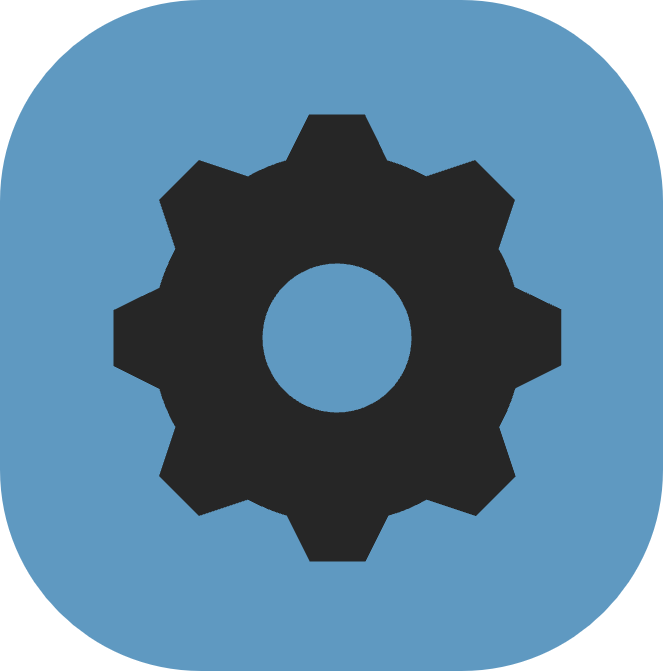
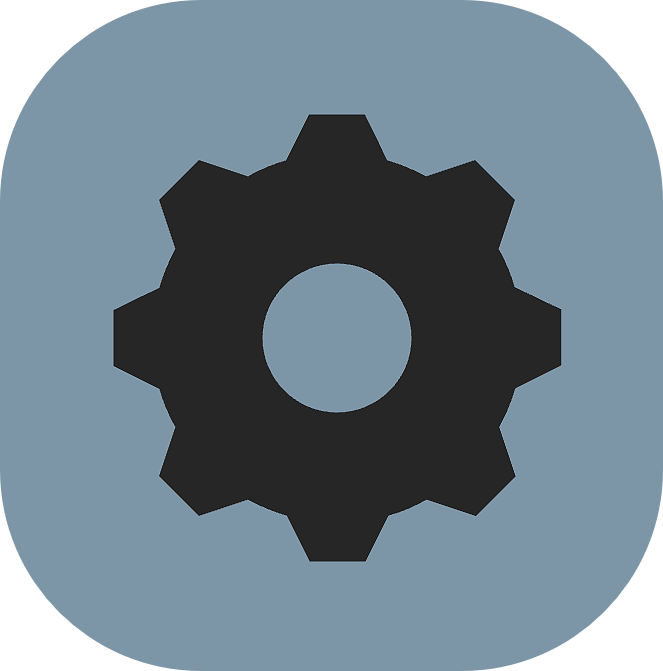
Update
Added persistence to tray opening

diff --git a/popup.js b/popup.js
@@ -11,7 +11,7 @@ const statusLabel = document.getElementById('status');
 const lookupTable = {'brightness':'Brightness','contrast':'Contrast','focusDistance':'Focus Distance','frameRate':'Frame Rate','colorTemperature':'Color Temp',
                     'iso':'ISO','saturation':'Saturation','sharpness':'Sharpness','exposureCompensation':'Exposure Comp', 'exposureTime':'Exposure Time'};
 const controlsList = document.getElementById('constraintControls');
-const controlsToggle = document.getElementById('config');
+const controlsToggle = document.getElementById('controlsToggle');
 const controlElements = new Map();
 const AUTO_MODE_CONFIG = {
     focusDistance: { modeKey: 'focusMode', autoValue: 'continuous', manualValue: 'manual' },
@@ -39,24 +39,36 @@ var showLabel = false;
 var labelBrightness = 0;
 var controlsCollapsed = true;
 
-if (controlsToggle) {
-    const applyControlsPanelState = () => {
+chrome.storage.local.get(['trayOpen'], (result) => {
+    let trayOpen = result.trayOpen;
+    if (trayOpen === undefined) {
+        trayOpen = false;
+        chrome.storage.local.set({ trayOpen });
+    }
+    controlsCollapsed = !trayOpen;
+
+    const updateControlsPanelState = () => {
         const expanded = !controlsCollapsed;
         document.body.classList.toggle('controls-collapsed', controlsCollapsed);
+        if (controlsToggle) {
+            controlsToggle.setAttribute('aria-expanded', expanded.toString());
+            controlsToggle.setAttribute('aria-label', expanded ? 'Hide controls panel' : 'Show controls panel');
+            controlsToggle.title = expanded ? 'Hide controls panel' : 'Show controls panel';
+        }
     };
 
-    applyControlsPanelState();
+    updateControlsPanelState();
 
-    controlsToggle.addEventListener('click', () => {
-        controlsCollapsed = !controlsCollapsed;
-        applyControlsPanelState();
-    });
+    if (controlsToggle) {
+        controlsToggle.addEventListener('click', () => {
+            controlsCollapsed = !controlsCollapsed;
+            updateControlsPanelState();
+            chrome.storage.local.set({ trayOpen: !controlsCollapsed });
+        });
+    }
+});
 
-    canvas.addEventListener('click', () => {
-        controlsCollapsed = true;
-        applyControlsPanelState();
-    });
-}
+
 
 function clampToCapability(key, value) {
     if (!capabilities || !capabilities[key]) {

diff --git a/style.css b/style.css
@@ -14,7 +14,7 @@ body.dark-mode button {
     width: 75px;
     height: 30px;
     background-color: #282727;
-    border: 2px solid #282727;
+    border: 1px solid #282727;
     color:#282727;
     font-size: 15px;
     display: flex;
@@ -365,33 +365,19 @@ body.light-mode .templates-select {
 .save-button {
     width: 30px;
     max-width: 30px;
+    min-width:30px;
     height: 30px;
     max-height: 30px;
     display: flex;
     justify-content: center;
     align-items: center;
-    border: none;
     border-radius: 8px;
-    background: rgba(255, 255, 255, 0.12);
     cursor: pointer;
-    transition: background-color 0.2s ease;
-}
-
-.save-button:hover {
-    background: rgba(255, 255, 255, 0.22);
-}
-
-body.light-mode .save-button {
-    background: rgba(0, 0, 0, 0.08);
-}
-
-body.light-mode .save-button:hover {
-    background: rgba(0, 0, 0, 0.14);
 }
 
 .save-icon {
-    width: 28px;
-    height: 28px;
+    width: 26px;
+    height: 26px;
     pointer-events: none;
 }
 
@@ -493,11 +479,6 @@ body.light-mode.controls-collapsed .controls-column .controls-toggle {
 
 body.light-mode .templates-select:focus-visible {
     outline: 2px solid #2b6ce8;
-}
-
-.save-button:focus-visible {
-    outline: 2px solid #4c9dff;
-    outline-offset: 2px;
 }
 
 .controls-toggle::after {

diff --git a/popup.html b/popup.html
@@ -48,9 +48,8 @@
             <button id="save" class="save-button" title="Save Configuration">
               <img src="icons/Save.png" alt="Save" class="save-icon">
             </button>
-            <button id="config" class="save-button" title="Save Configuration">
-              <!-- <img src="icons/Save.png" alt="Save" class="save-icon"> -->
-               
+            <button id="controlsToggle" class="save-button" title="Save Configuration">
+              <img src="icons/Constraints.png" alt="Save" class="save-icon">
             </button>
           </div>
           <div id="constraintControls" class="controls-list"></div>
